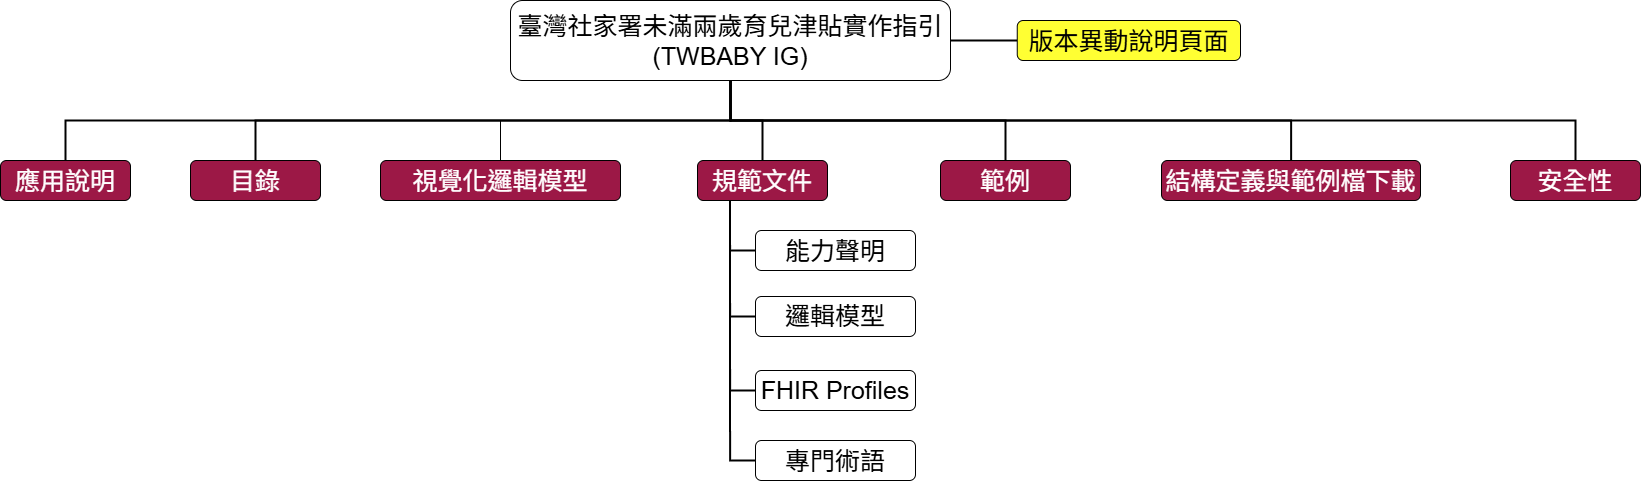
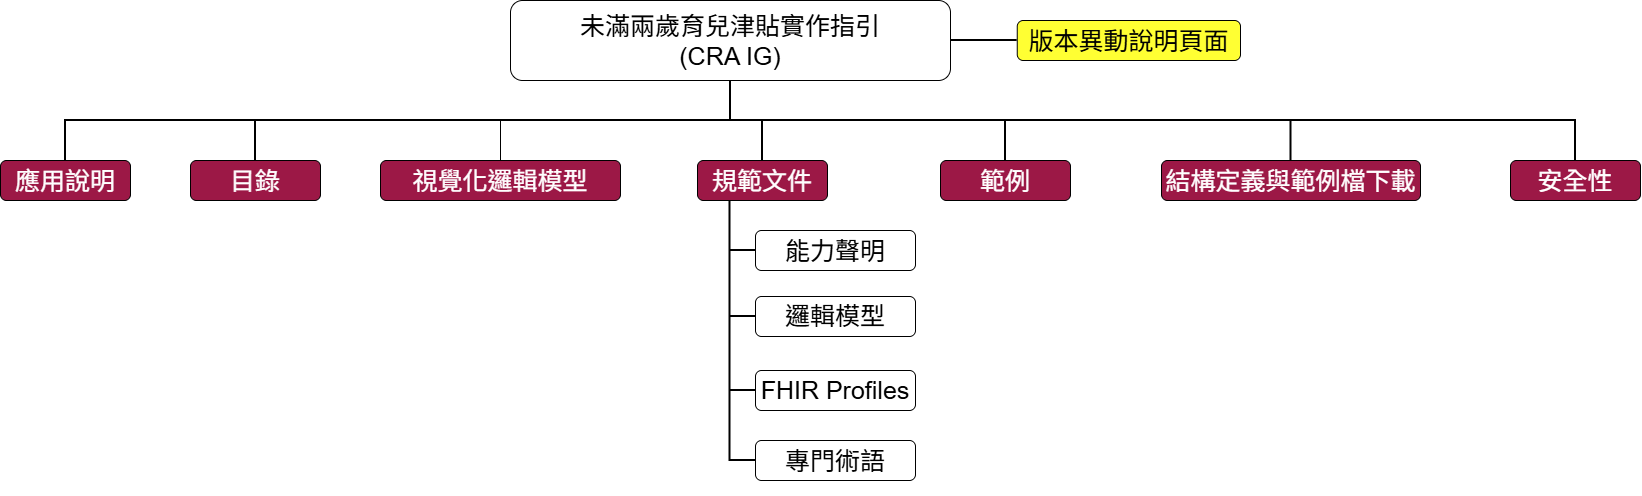
1119

diff --git a/custom-template/content/searchform.html b/custom-template/content/searchform.html
@@ -96,7 +96,7 @@
           <div class="inner-wrapper">
             <div class="col-12">
               <h2>Search {{title}} (Current Build)</h2>
-<iframe src="https://duckduckgo.com/search.html?site=twssbase.sfaa.gov.tw/ig/cra/&amp;prefill=Search 未滿兩歲育兒津貼服務實作指引&amp;focus=yes" style="overflow:hidden;margin:0;padding:0;width:408px;height:40px;" frameborder="0"></iframe>
+<iframe src="https://duckduckgo.com/search.html?site=twssbase.sfaa.gov.tw/ig/cra/&amp;prefill=Search 未滿兩歲育兒津貼實作指引&amp;focus=yes" style="overflow:hidden;margin:0;padding:0;width:408px;height:40px;" frameborder="0"></iframe>
               <hr />
               <p> Note: this search searches the curent build of {{title}}. </p>
             </div>
@@ -112,7 +112,7 @@
       <!-- segment-footer --><div class="container">
         <!-- container --><div class="inner-wrapper">
           <p>
-            <span id="ig-footer"> tw.gov.mohw.sfaa.cra: 未滿兩歲育兒津貼服務實作指引 </span> &#174;&#169; <a style="color: #81BEF7" href="https://www.sfaa.gov.tw/">衛生福利部社會及家庭署</a> |
+            <span id="ig-footer"> tw.gov.mohw.sfaa.cra: 未滿兩歲育兒津貼實作指引 </span> &#174;&#169; <a style="color: #81BEF7" href="https://www.sfaa.gov.tw/">衛生福利部社會及家庭署</a> |
             <!--  <a style="color: #81BEF7" rel="license"  <href="../license.html"><img style="border-style: none;" alt="CC0" src="cc0.png"/></a> -->
             <a style="color: #81BEF7" rel="license" href="http://hl7.org/fhir/license.html">
               <img style="border-style: none;" alt="CC0" src="cc0.png" />

diff --git a/input/pagecontent/index.md b/input/pagecontent/index.md
@@ -1,7 +1,7 @@
 ### 專案介紹
 <div  style="padding-left: 10px;"> 
 
-<p>未滿兩歲育兒津貼服務實作指引（Child-Raising Allowance For Children Under The Age Of 2 Base IG, CRA IG）採用 HL7<sup>&reg;</sup> FHIR<sup>&reg;</sup> R4.0.1 建置，繼承臺灣社政領域基礎實作指引（TWSS Base IG），進一步定義未滿兩歲兒童育兒津貼與托育服務整合資訊系統交換資料時所使用的 Resources、資料項目、基數及資料型別。</p>
+<p>未滿兩歲育兒津貼實作指引（Child-Raising Allowance For Children Under The Age Of 2 Base IG, CRA IG）採用 HL7<sup>&reg;</sup> FHIR<sup>&reg;</sup> R4.0.1 建置，繼承臺灣社政領域基礎實作指引（TWSS Base IG），進一步定義未滿兩歲兒童育兒津貼與托育服務整合資訊系統交換資料時所使用的 Resources、資料項目、基數及資料型別。</p>
 
 </div>
 

diff --git a/input/pagecontent/models.md b/input/pagecontent/models.md
@@ -1,3 +1,3 @@
-以下為未滿兩歲育兒津貼服務實作指引（CRA IG）的所有邏輯模型。
+以下為未滿兩歲育兒津貼實作指引（CRA IG）的所有邏輯模型。
 
 {% include table-logicals.xhtml %}
